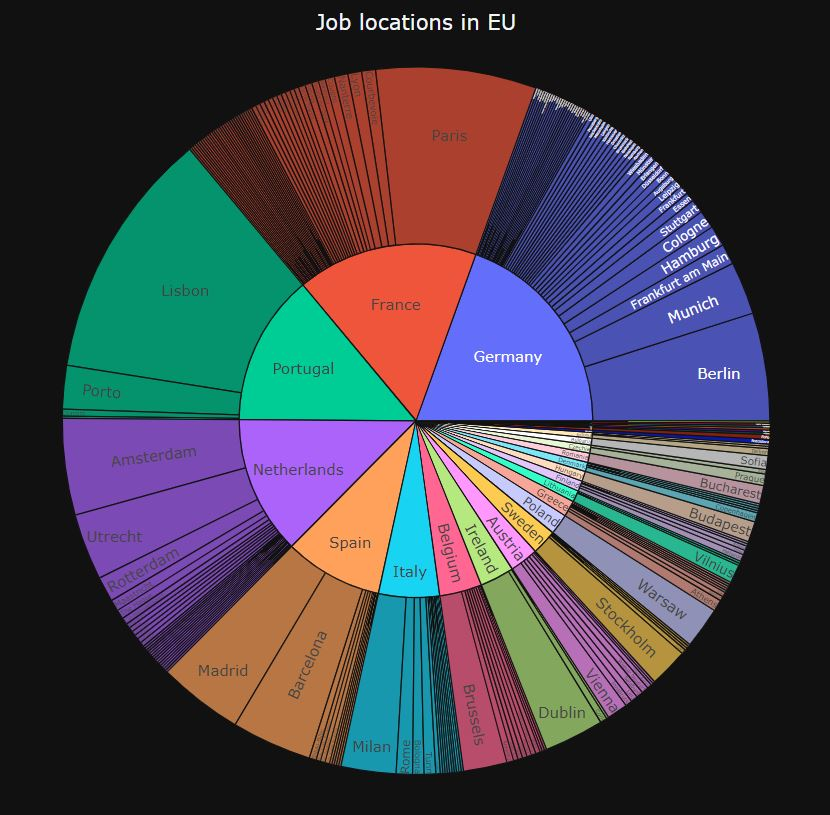
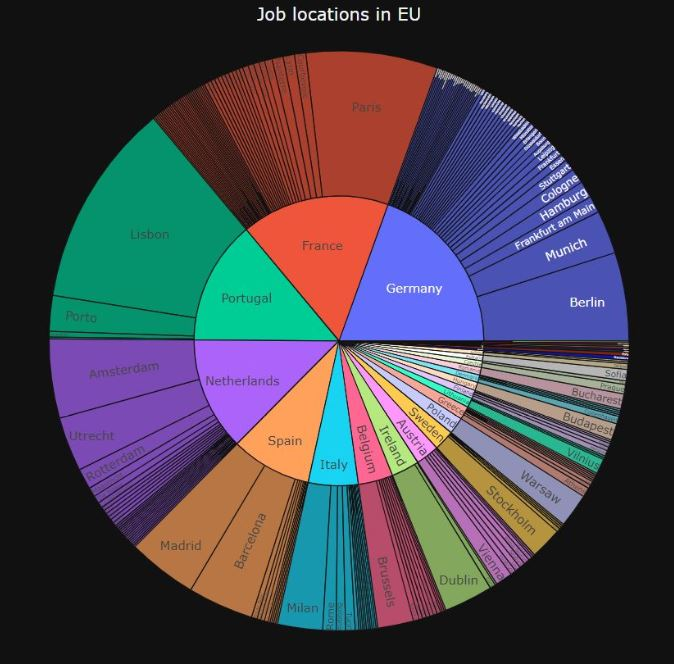
Updated visualize_data.py

diff --git a/visualize_data.py b/visualize_data.py
@@ -17,10 +17,10 @@ for filename in os.listdir(origin_directory):
     elif filename[-7:-5] != 'EU':  # this is for my personalized sample
         df_joined_locations = join_locations(df_joined_locations, df)
     plot_sunburst(df, show=True, save=False, location=filename[filename.rfind('_')+1:filename.rfind('.')],
-                  template='plotly_dark', transparent_bg=False)
+                  template='plotly', transparent_bg=False)
 
 # Plot with average salary, cost of living, and number of jobs per city
-plot_scatter(df_joined_locations, show=True, save=False, min_jobs=25, text=True, template='plotly_dark',
+plot_scatter(df_joined_locations, show=True, save=False, min_jobs=25, text=True, template='plotly',
              transparent_bg=False)
 
 del df, df_joined_locations, origin_directory, filename
